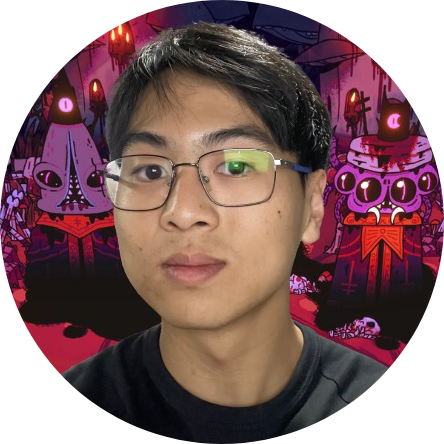
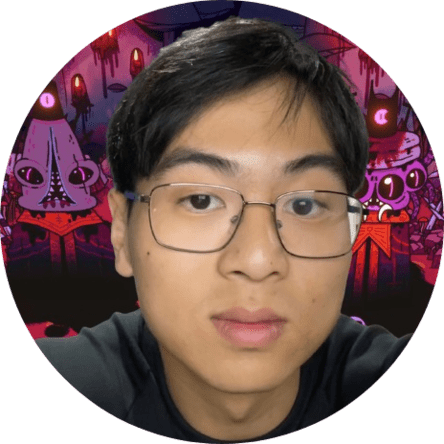
completed the About Me section

diff --git a/index.html b/index.html
@@ -36,32 +36,35 @@
 
         <!-- About me -->
         <section id="AboutMe">
-            <div class="flex-container">
-                <div class="container">
-                    <!-- Image of myself here -->
-                    <img src="images/me.png">
-            </div>
-
-            <div class="container">
-                <div class="heading">About Me</div>
-                <p class="subheadig">Name: Jack Liu</p>
-                <p class="subheading">Age: 19</p>
-                <p class="subheading">Degree: Computer Science</p>
-                <p class="subhheading">Personality: ISFJ-T</p>
-            </div>
-
-            </div>
-
-            <div class="grid">
+            <h2>The Archives</h2>
+            <div class="about-me-grid">
+                <div class="about-me-1">
+                    <h4>Name:</h4>
+                    <p>Jack Liu</p>
+                    <h4>Age:</h4>
+                    <p>19</p>
+                    <h4>Species:</h4>
+                    <p>Computer Science</p>
+                </div>
                 <div class="flip-coin">
                     <div class="flip-coin-whole">
                         <div class="coin-front">
-                            <p>Front</p>
+                            <!--444px by 444px-->
+                            <img src="images/front.png">
                         </div>
                         <div class="coin-back">
+                            <!--444px by 444px-->
                             <img src="images/me.png">
                         </div>
                     </div>
+                </div>
+                <div class="about-me-2">
+                    <h4>Personality:</h4>
+                    <p>ISFJ-T</p>
+                    <h4>Classifcation:</h4>
+                    <p>2nd Year</p>
+                    <h4>Weakness:</h4>
+                    <p>Body Dysmorphia, Cakes</p>
                 </div>
             </div>
         </section>

diff --git a/style.css b/style.css
@@ -32,13 +32,14 @@ nav {
     height: 10em;
     margin: auto;
     margin-top: 9em;
-    margin-bottom: 12em;
+    margin-bottom: 15em;
     text-align: center;
     border-radius: 100%;
+    align-items: center;
 }
 
 nav img {
-    margin-left: auto;
+    margin-left: -10px;
     margin-right: auto;
     width: 100%;
 }
@@ -256,12 +257,13 @@ section {
 /* Home Section */
 
 .title {
-    font-size: 30px;
+    font-size: 50px;
     display: block;
 }
 
 .soft-title {
     font-size: 20px;
+    margin-bottom: 10em;
 }
 
 #Home {
@@ -293,6 +295,45 @@ section {
 }
 
 /* About Me Section */
+.about-me-grid {
+    display: grid;
+    grid-template-columns: repeat(3, 444px);
+    grid-auto-rows: 444px;
+    justify-content: center;
+    grid-gap: 30px;
+    margin-left: auto;
+    margin-right: auto;
+    grid-auto-flow: row;
+    margin-top: 2%;
+}
+
+.about-me-grid img {
+    margin: auto;
+}
+
+.about-me-grid h4 {
+    font-size: 30px;
+    margin: 10px;
+}
+
+.about-me-grid p {
+    color: crimson;
+    font-size: 24px;
+}
+
+.about-me-grid .flip-coin {
+    grid-row-start: 1;
+    grid-column-start: 2;
+}
+
+#AboutMe h2 {
+    padding-bottom: 2%;
+    font-size: 33px;
+}
+
+#AboutMe h2:hover {
+    color: crimson;
+}
 
 /* Flip Coin*/
 .flip-coin {
